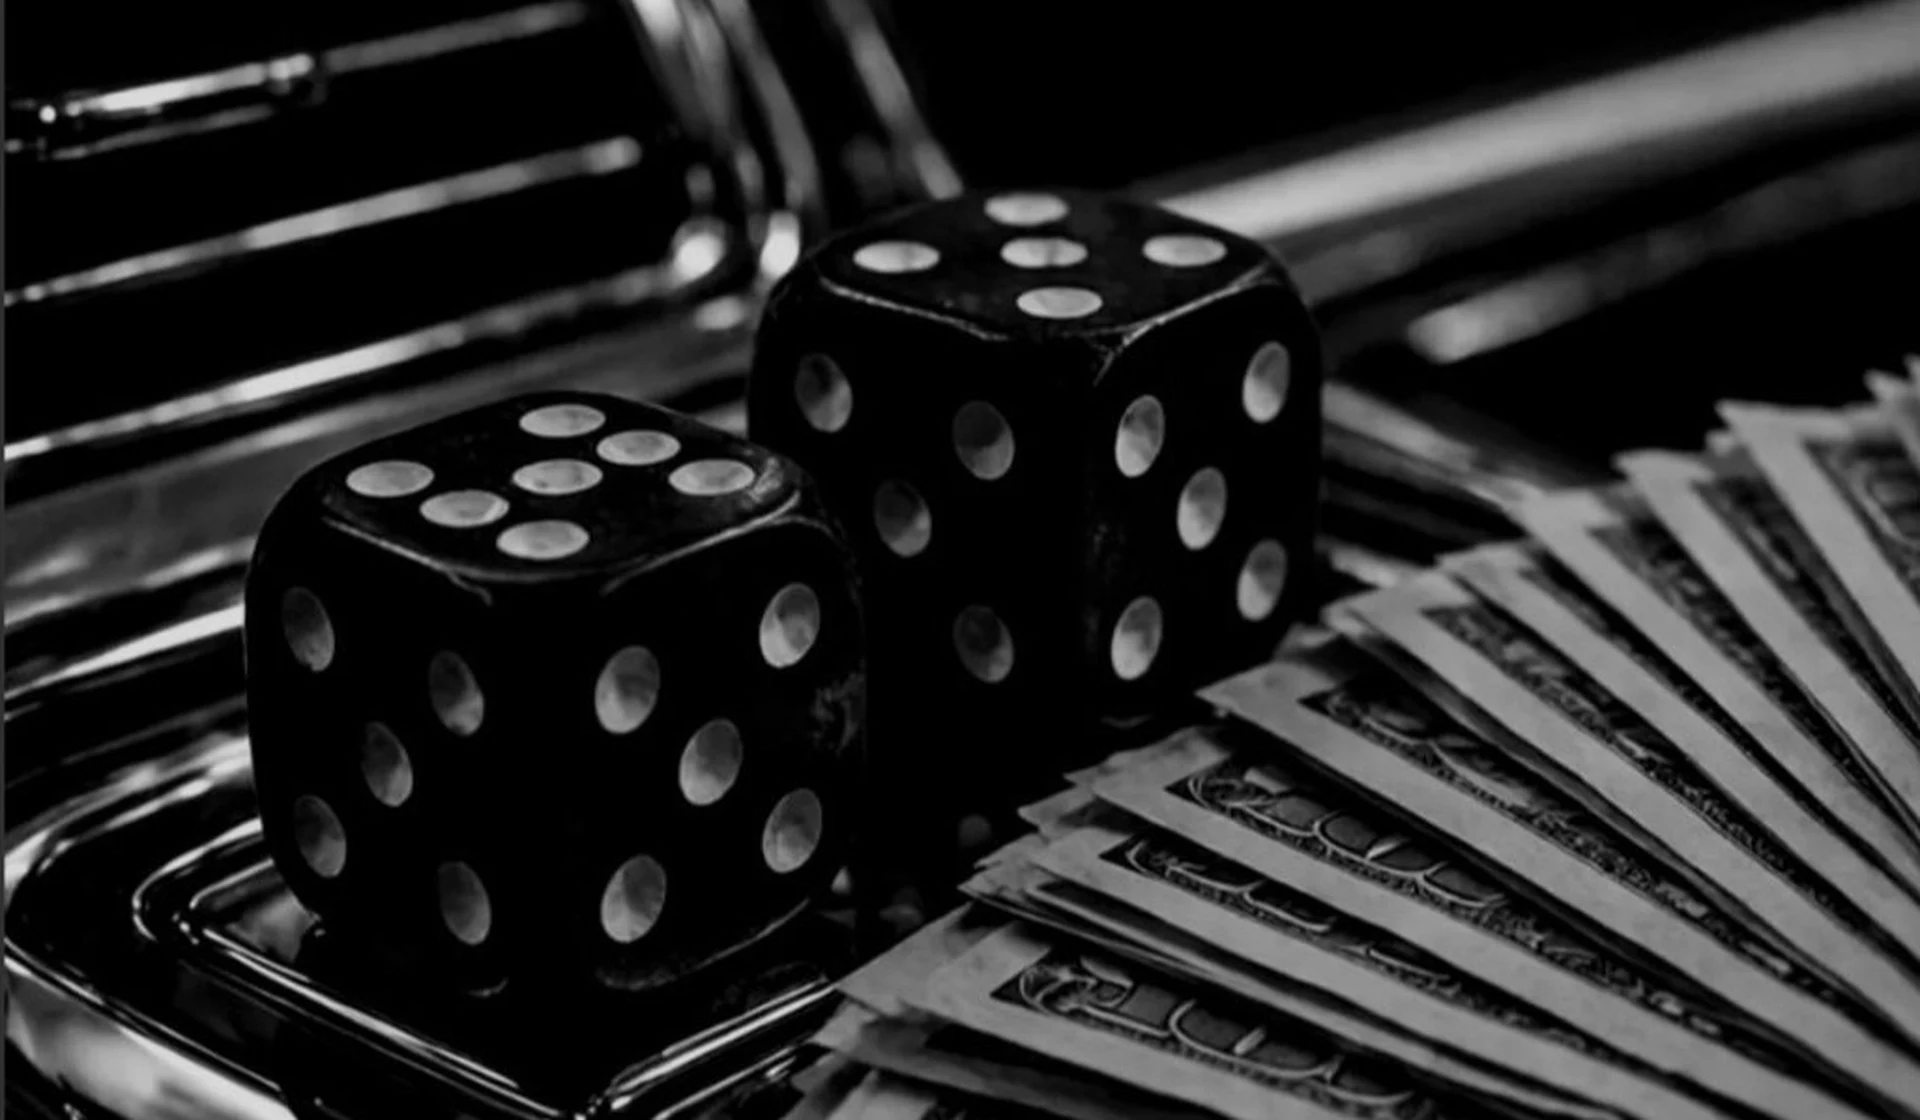
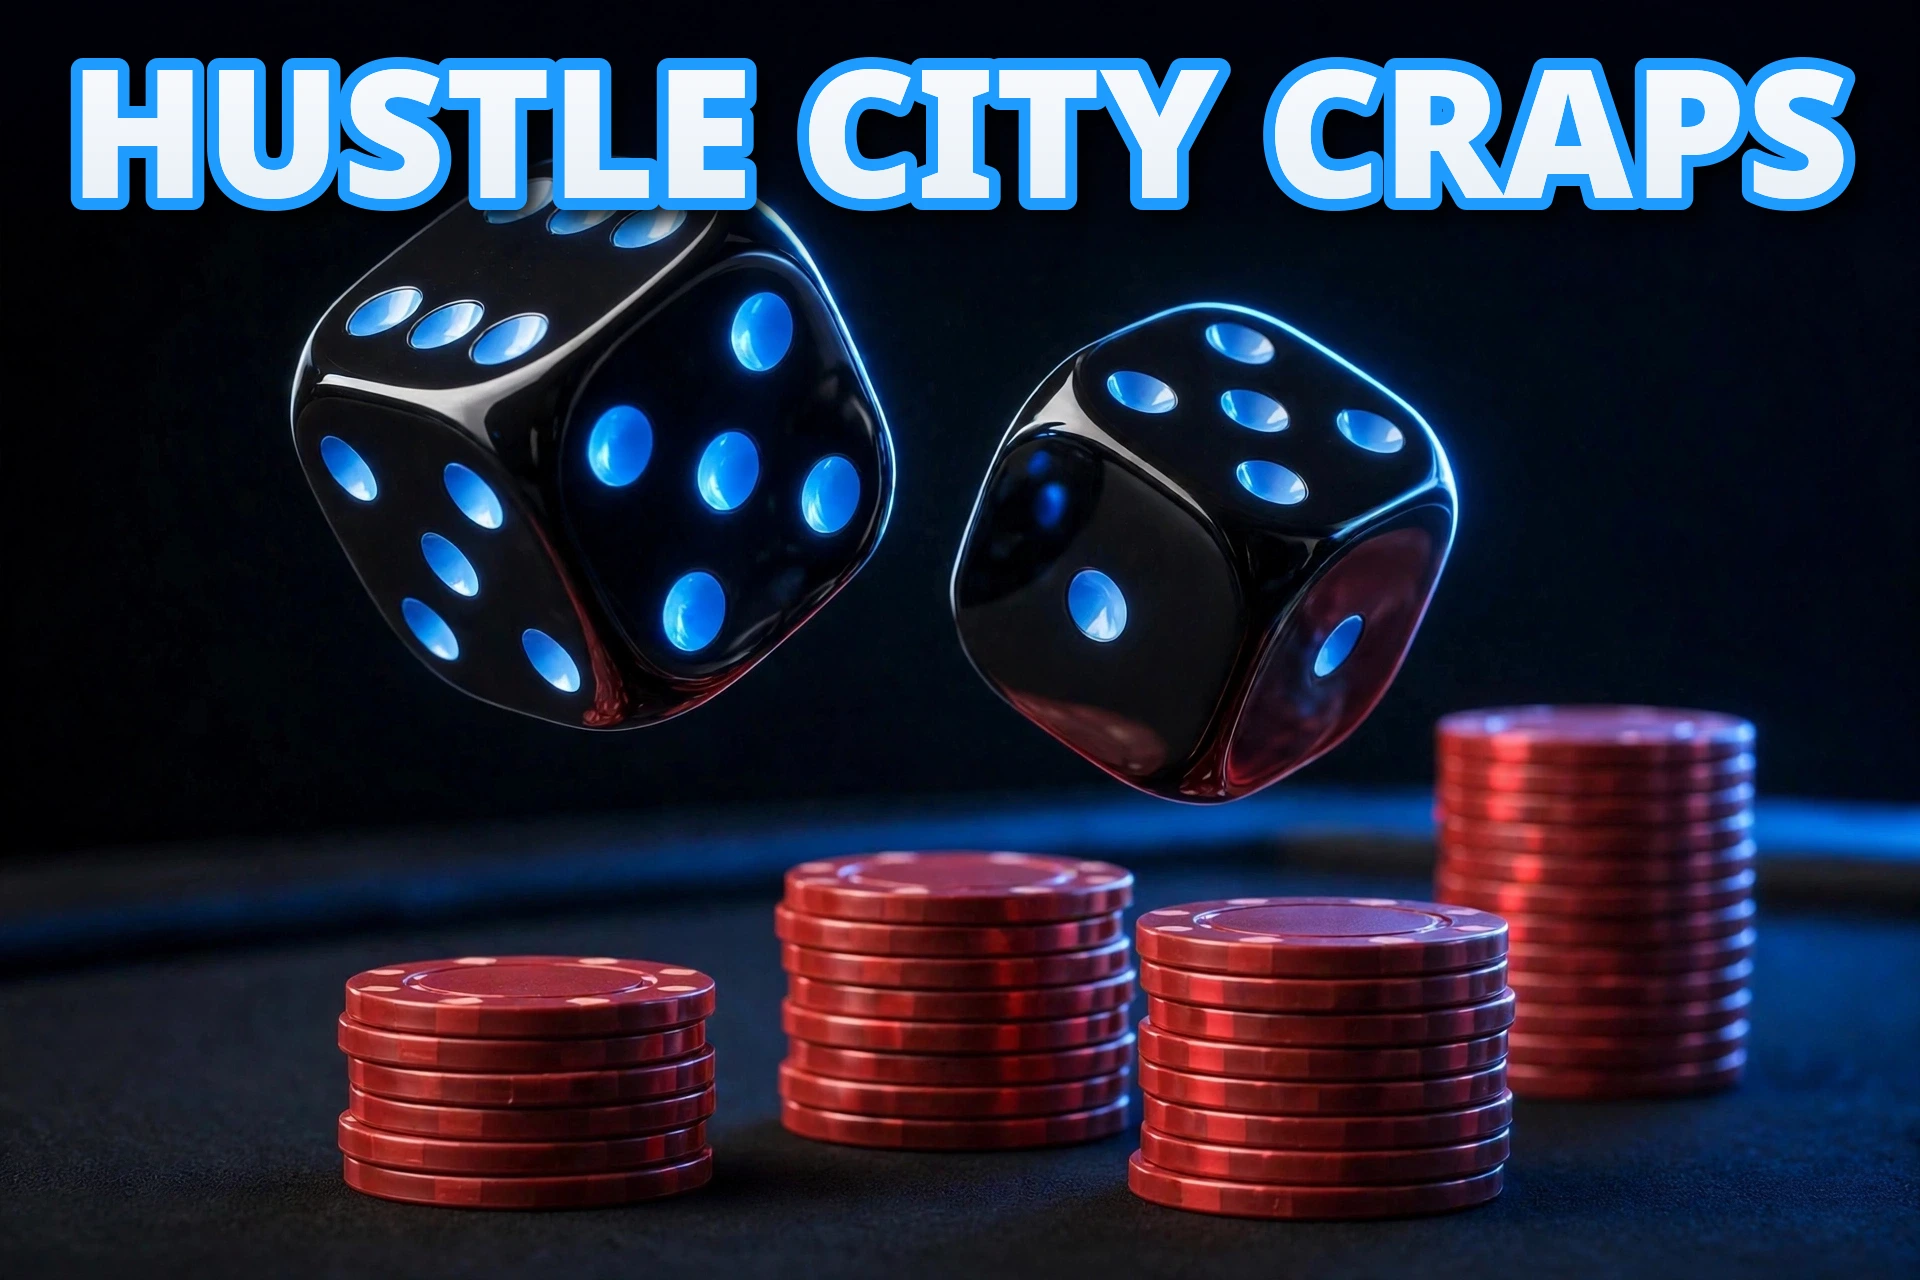
Hustle City Craps cover: Joshua's pick (option 1) — black dice, blue-glow pips, red chips, typeset title; img height/object-position updated to match new art

diff --git a/index.html b/index.html
@@ -359,7 +359,7 @@ main section{scroll-margin-top:76px}
 <div class="grid">
 
 <article class="card" data-search-item>
-  <img class="cover" src="assets/hustle-city-craps-cover.webp" alt="Hustle City Craps — street craps under the neon, dice in the air" width="1920" height="1120" loading="lazy">
+  <img class="cover" src="assets/hustle-city-craps-cover.webp" alt="Hustle City Craps — street craps under the neon, dice in the air" width="1920" height="1280" loading="lazy" style="object-position:center top">
   <div class="body"><h3>Hustle City Craps</h3>
   <p>Street craps, Hustle City style — the same dice hand and money rules as the street game in Hustle City 2, with a full four-handed Spades table built in. Start with $2,000 and run it up.</p>
   <div class="buyrow"><span class="p">$1.00<small>one-time</small></span><a class="buy" href="https://buy.stripe.com/6oU9AT1hTc2wgkB91b3kt1w" aria-label="Buy Hustle City Craps — $1">Buy</a></div>
